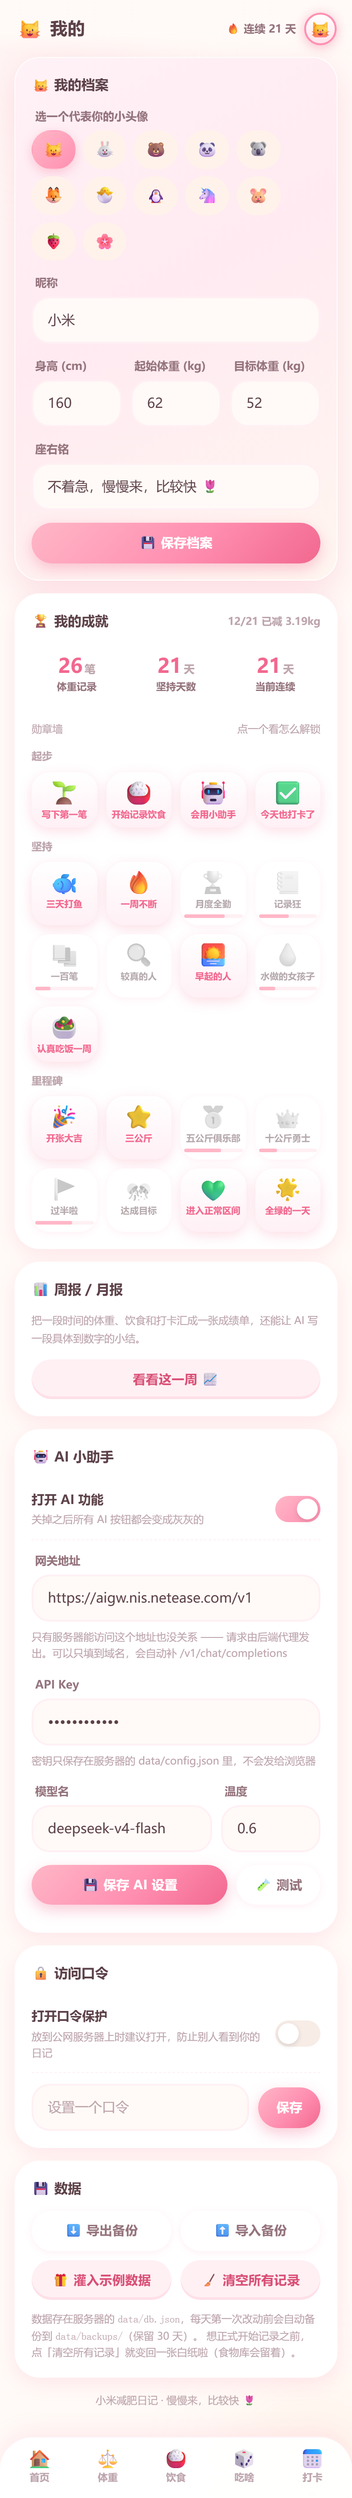
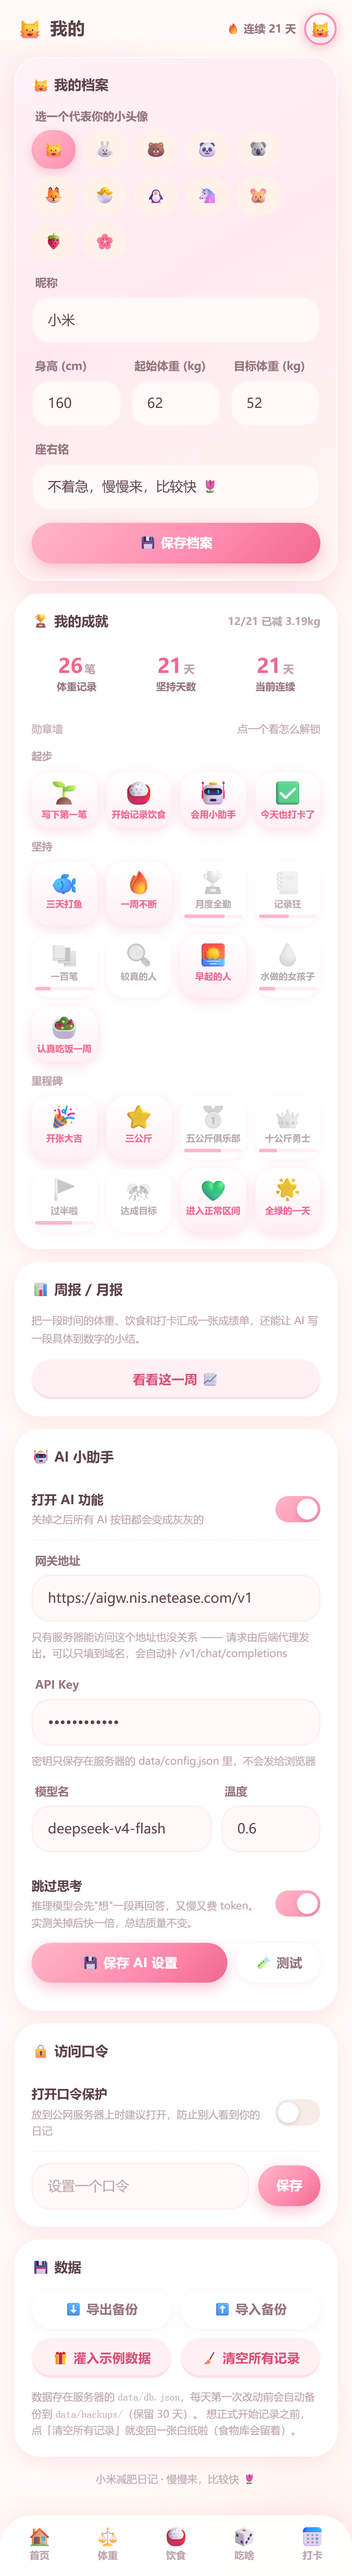
支持让推理模型跳过思考，并修掉几个 AI 相关的问题
跳过思考
- 新增 ai.disableThinking（默认开），请求里带 thinking:{type:"disabled"}
- 实测 deepseek-v4-flash：周报总结平均 4736ms → 2532ms，
  reasoning_tokens 归零，引用数字的准确度和结论都没变
- 网关不认这个字段（400）时自动去掉重试一次，并记住不再白撞
- 我的 → AI 小助手 里加了开关

修掉的问题
- /api/config/test 传了 max_tokens:100，推理模型的思考就把预算吃光了，
  返回的 content 是空的、finish_reason 是 length，看起来像网关坏了。
  现在测试接口不传 max_tokens，和业务调用走同一条路径
- 周报总结输出较长时会被网关默认的 max_tokens 截断，断在半句的 JSON
  解析不出来，但原始回复看着很像正常的 JSON，容易被误判成提示词问题。
  现在显式给够 max_tokens，并且截断时明确报"还没写完就被截断了"
- 每日鼓励把 kg 当成斤说过"掉3斤多"（实际 6.4 斤）。提示词里写明单位，
  并要求只能用给出的数字
- /api/daily-tip 把整条 movingAvg 时间序列都发给 AI 写一句 30 字的鼓励，
  既费 token 又让模型把数字搅混（编出过数据里没有的"65公斤"）。
  改成只发用得上的标量，并且给周报 payload 的键名都带上单位
- .setting-row__desc 用 word-break:break-all 会把英文单词从中间劈开
  （"token" 变成 "to/ken"），改用 overflow-wrap

示例数据
- 饮食和打卡原来只覆盖最近 7 天，导致周报和月报的数字一模一样、
  月报看着像坏了。现在铺开到 4 周并带上真实的断记，
  周报 24 顿 / 7 天，月报 45 顿 / 13 天

其他
- 新增 .gitattributes（一律 LF），避免 Dockerfile 和 start.sh
  在 Windows 上被转成 CRLF 后在 Linux 里跑不起来
- scripts/shot.mjs 支持 --click / --waitfor，可以先触发按钮再截图

diff --git a/public/js/views/me.js b/public/js/views/me.js
@@ -7,7 +7,15 @@ export async function render(root, ctx) {
   const p = profile();
   const st = state.stats || {};
   const cfgRes = await api.getConfig().catch(() => ({ config: null }));
-  const ai = cfgRes.config?.ai || { enabled: false, baseUrl: '', apiKey: '', model: '', temperature: 0.6, timeoutMs: 45000 };
+  const ai = cfgRes.config?.ai || {
+    enabled: false,
+    baseUrl: '',
+    apiKey: '',
+    model: '',
+    temperature: 0.6,
+    timeoutMs: 45000,
+    disableThinking: true,
+  };
   const auth = cfgRes.config?.auth || { enabled: false, hasPassword: false };
   // 成就列表：拉不到就退化成没墙，不要整页报错
   const ach = await api.achievements().catch(() => null);
@@ -175,6 +183,19 @@ export async function render(root, ctx) {
           </div>
         </div>
 
+        <div class="setting-row">
+          <div class="setting-row__text">
+            <div class="setting-row__title">跳过思考</div>
+            <div class="setting-row__desc">
+              推理模型会先"想"一段再回答，又慢又费 token。实测关掉后快一倍，总结质量不变。
+            </div>
+          </div>
+          <label class="switch">
+            <input type="checkbox" data-ai-nothink ${ai.disableThinking !== false ? 'checked' : ''} />
+            <span class="switch__track"></span>
+          </label>
+        </div>
+
         <div class="row" style="gap:10px">
           <button class="btn btn--primary grow" data-save-ai>💾 保存 AI 设置</button>
           <button class="btn btn--plain" data-test-ai>🧪 测试</button>
@@ -271,6 +292,7 @@ export async function render(root, ctx) {
           apiKey: qs('[data-ai-key]', root).value.trim(),
           model: qs('[data-ai-model]', root).value.trim(),
           temperature: Number(qs('[data-ai-temp]', root).value) || 0.6,
+          disableThinking: qs('[data-ai-nothink]', root).checked,
         },
       });
       await ctx.refresh();

diff --git a/public/css/style.css b/public/css/style.css
@@ -726,7 +726,10 @@ a {
   font-size: 11.5px;
   color: var(--cocoa-faint);
   margin-top: 2px;
-  word-break: break-all;
+  /* 中文本来就能在任意字之间换行，不用 break-all。
+     用 break-all 会把英文单词从中间劈开（"token" 变成 "to/ken"），
+     而 overflow-wrap 只在真的放不下时才断，长网址也不会撑破。 */
+  overflow-wrap: break-word;
 }
 
 /* ---------- 8. 展示组件 ---------- */

diff --git a/README.md b/README.md
@@ -129,6 +129,7 @@ AI 总结长这样（下面这张是接真实网关跑出来的，点一下"让 
 | API Key | 只写进服务器的 `data/config.json`，**永远不会发给浏览器** |
 | 模型名 | 比如 `deepseek-chat`、`gpt-4o-mini`、`qwen-plus` |
 | 温度 | 默认 0.6，分析类任务建议 0.3–0.7 |
+| 跳过思考 | 默认打开，见下一节 |
 
 填完点 **🧪 测试**，通了会告诉你模型名和它的回复。
 
@@ -138,15 +139,23 @@ AI 总结长这样（下面这张是接真实网关跑出来的，点一下"让 
 ### 如果用的是"会思考"的模型
 
 `deepseek-reasoner`、`deepseek-v4-flash` 这类模型会先输出一段思考
-（响应里的 `reasoning_content`）再给答案，**思考也占 token**。
-所以 `max_tokens` 给小了会出两种很像"网关坏了"其实不是的现象：
+（响应里的 `reasoning_content`）再给答案，**思考也占 token 也占时间**。
+
+所以默认会带上 `thinking: {type: "disabled"}` 让它跳过思考。实测同一份周报数据、
+同一个提示词，关掉之后平均从 4736ms 降到 2532ms，引用数字的准确度和结论都没变。
+如果哪天发现某个任务关掉思考确实变差了，去 **我的 → AI 小助手 → 跳过思考** 关掉即可。
+
+> 有的网关不认 `thinking` 这个字段、会直接返回 400。
+> 遇到这种情况 `server/ai.mjs` 会自动去掉参数重试一次，
+> 并记住"这个网关不支持"，之后不再白撞。
+
+`max_tokens` 给小了还会出两种很像"网关坏了"其实不是的现象：
 
 - `content` 是空的、`finish_reason` 是 `length` —— token 全花在思考上了
 - 看着像正常的 JSON，但断在半句，解析不出来
 
-代码里已经处理了：报错时这两种情况会分别说清楚（"还没写完就被截断了" /
-"只吐了思考过程"），不会混成一句"AI 网关没有返回内容"；
-`server/ai.mjs` 里每个 JSON 调用也都显式给了够用的 `max_tokens`。
+代码里都处理了：这两种情况会分别说清楚（"还没写完就被截断了" / "只吐了思考过程"），
+不会混成一句"AI 网关没有返回内容"；`server/ai.mjs` 里每个 JSON 调用也都显式给了够用的 `max_tokens`。
 
 **换成别的推理模型时，留意 `max_tokens` 别小于 2000**，不然很容易被截断。
 
